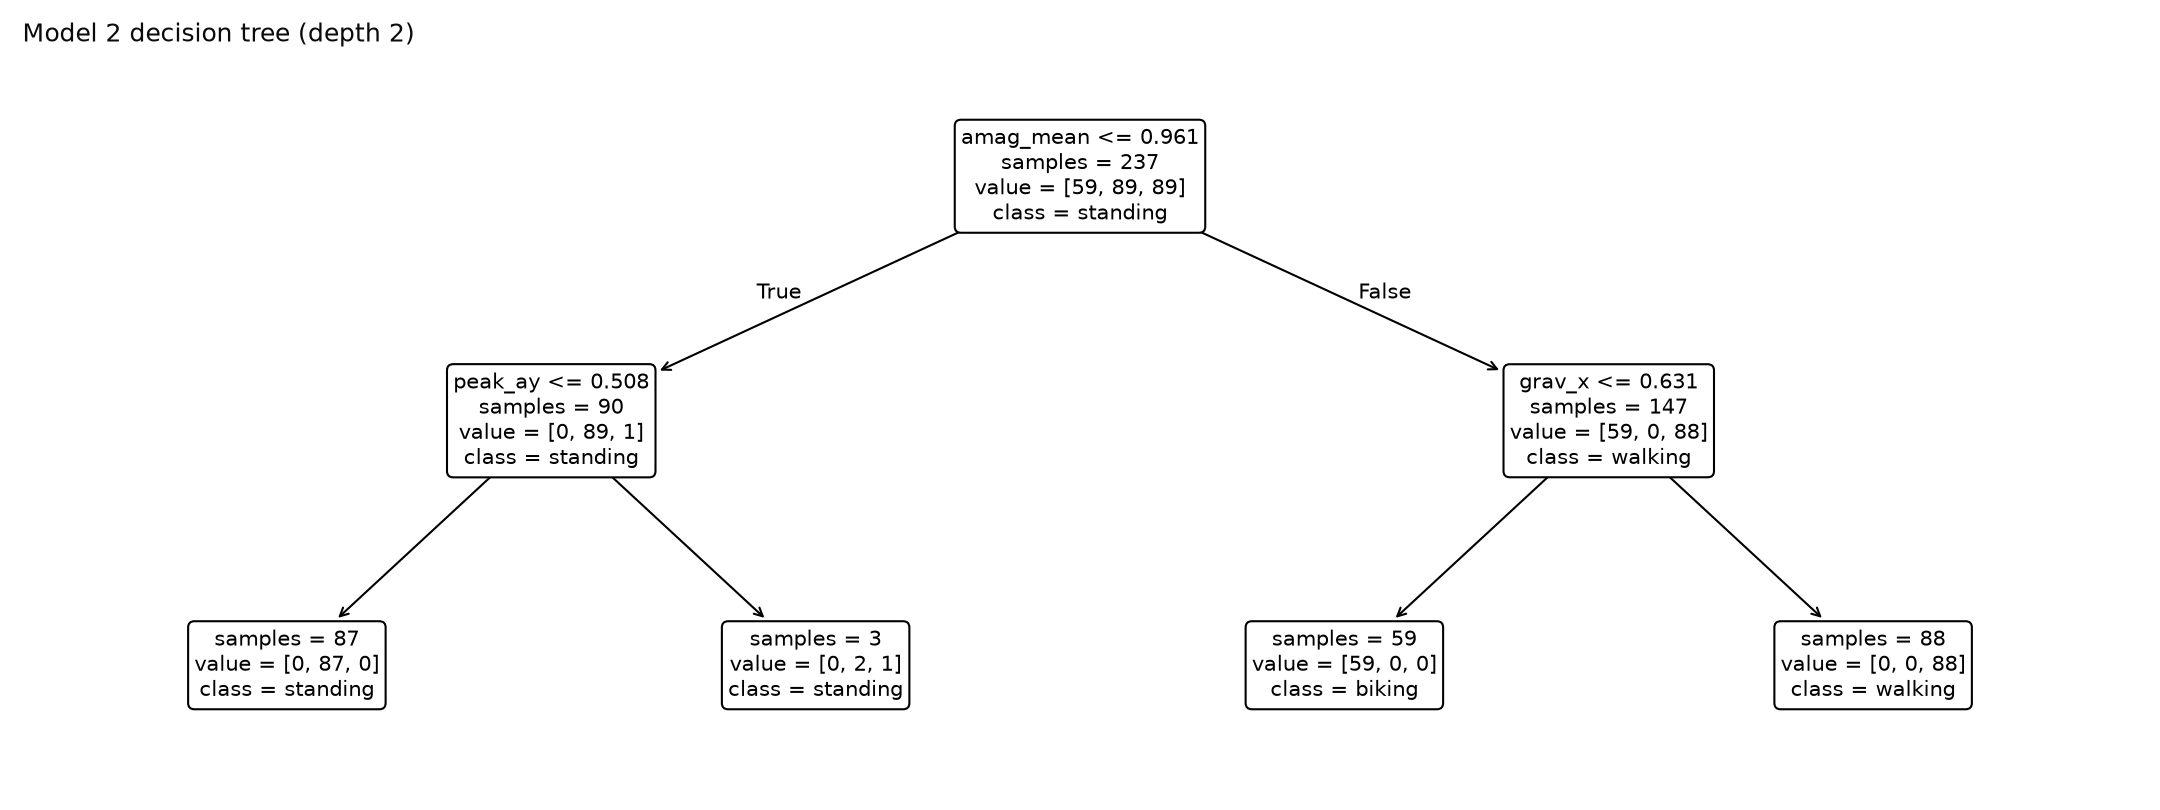
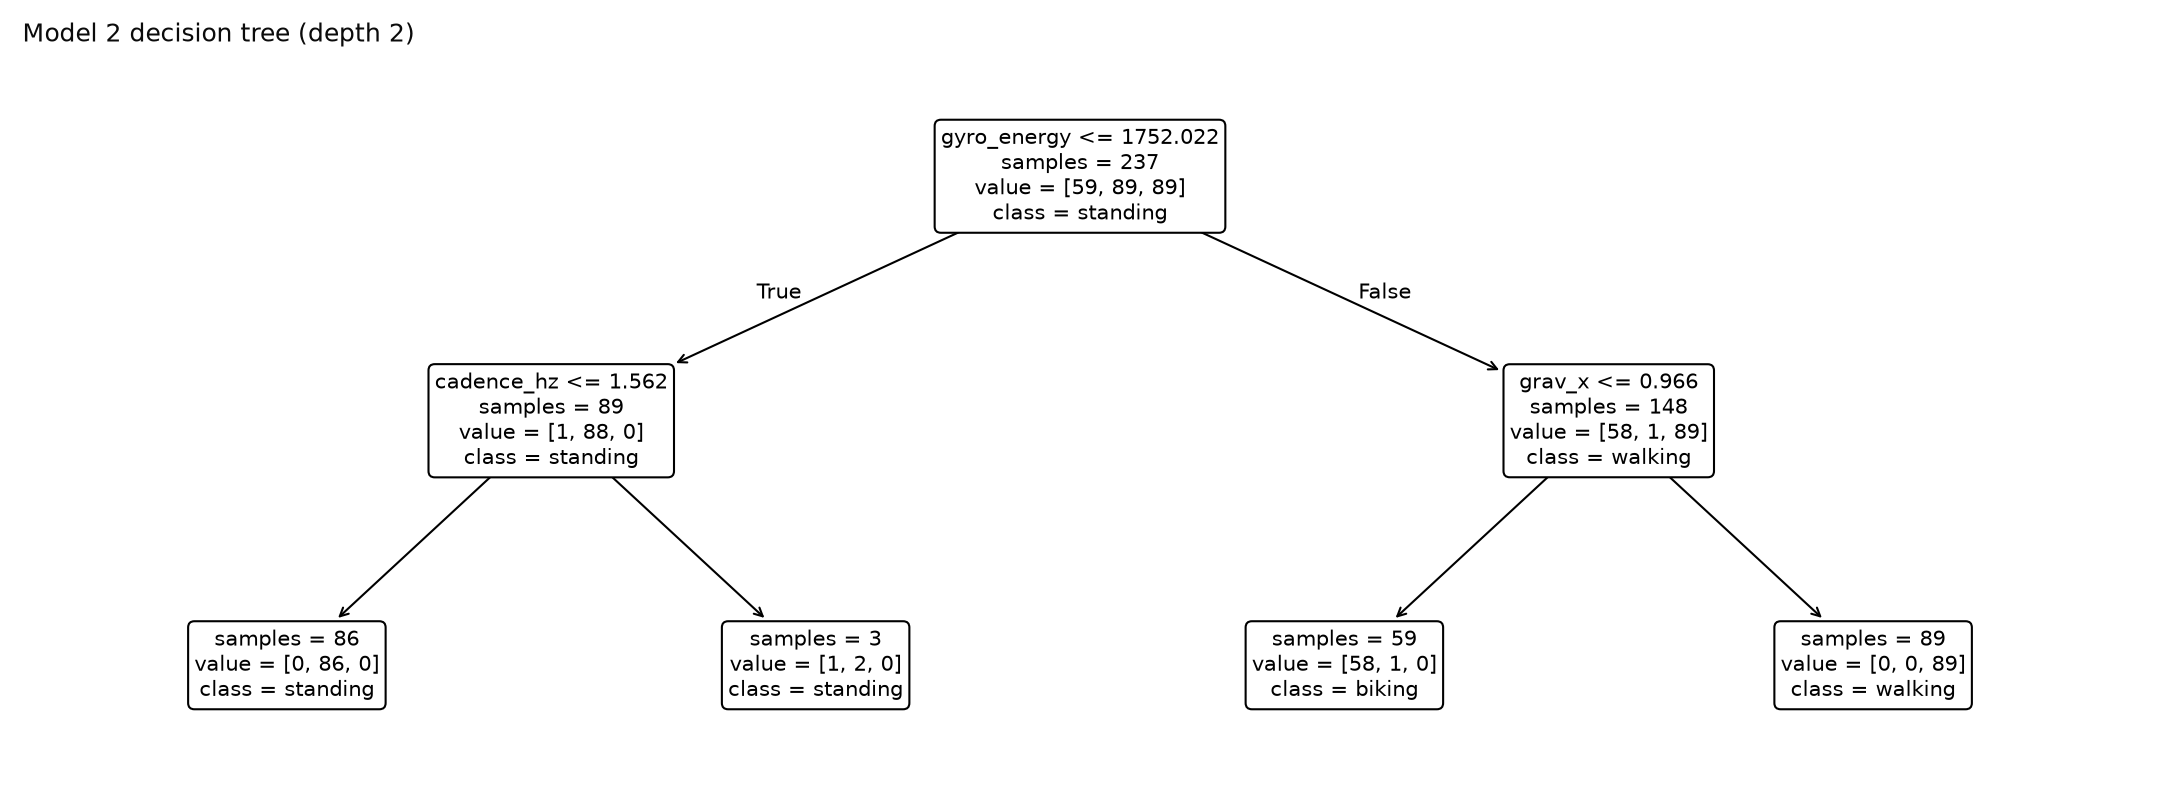
Model 2: drop calibration-sensitive features
Absolute accel levels and per-axis means (amag_mean/min/max, mean_a*,
mean_g*) shift with a sensor's offset/scale and gyro bias; the old root
split amag_mean <= 0.961 only reflected this sensor's ~0.95 g at rest.
Without them the tree splits on gyro_energy (is the thigh rotating?) and
grav_x (is the thigh vertical?), and held-out accuracy on the current
1-subject time split went from 97% to 100% (72 windows).

diff --git a/laptop/model2.py b/laptop/model2.py
@@ -1,5 +1,12 @@
 """Phase 5, Model 2: a shallow decision tree on all IMU features.
 
+Calibration-sensitive features are left out (CALIBRATION_SENSITIVE): absolute
+accel levels and per-axis means move with a sensor's offset/scale and gyro
+bias, so a split on them (e.g. amag_mean <= 0.961, which only reflected this
+sensor reading ~0.95 g at rest) would not carry over to other people or
+boards. Model 2 uses variability (std, amag_std, gyro magnitude/energy),
+cadence, peaks and the gravity *direction* (a unit vector) instead.
+
 Depths 2-5 are compared on the same held-out splits as Model 1 (see
 evaluation.py); the shallowest depth with the best held-out accuracy is refit
 on all windows and exported as plain if/else Python (no sklearn on the board).
@@ -29,13 +36,18 @@ from sklearn.tree import DecisionTreeClassifier, plot_tree
 
 import plotting
 from evaluation import classes_present, splits
-from shared import REPO, shared_features
+from shared import REPO, copy_to_app, shared_features
 
 F = shared_features()
 DEPTHS = (2, 3, 4, 5)
 MIN_SAMPLES_LEAF = 3
 RULES = REPO / "models" / "model2_rules.py"
 META_COLUMNS = ("subject", "recording", "activity", "label", "t_start", "t_end")
+CALIBRATION_SENSITIVE = (
+    "amag_mean", "amag_min", "amag_max",       # absolute |a| levels (scale/offset)
+    "mean_ax", "mean_ay", "mean_az",           # per-axis offsets (direction is in grav_*)
+    "mean_gx", "mean_gy", "mean_gz",           # gyro bias
+)
 
 
 def make_tree(depth):
@@ -87,7 +99,7 @@ def load_rules():
 
 def main():
     windows = pd.read_csv(REPO / "data" / "windows.csv")
-    features = [c for c in windows.columns if c not in META_COLUMNS]
+    features = [c for c in windows.columns if c not in META_COLUMNS and c not in CALIBRATION_SENSITIVE]
     classes = classes_present(windows, F.CLASSES)
     method, folds = splits(windows)
     X, y = windows[features], windows["label"]
@@ -116,7 +128,9 @@ def main():
     mismatch = int((exported != clf.predict(X)).sum())
     if mismatch:
         raise SystemExit(f"exported rules disagree with sklearn on {mismatch} windows")
-    print(f"exported {RULES.relative_to(REPO)} (matches sklearn on all {len(windows)} windows)")
+    copy_to_app(RULES)
+    print(f"exported {RULES.relative_to(REPO)} (matches sklearn on all {len(windows)} windows; "
+          f"copied to unoq_app/python/models/)")
 
     preds = held_out[best][0]
     tested = preds.dropna().index

diff --git a/models/model2_rules.py b/models/model2_rules.py
@@ -1,16 +1,16 @@
 """Model 2 decision tree, generated by laptop/model2.py. Do not edit by hand."""
 
-# depth 2, trained on 237 windows from subjects ceci, classes standing, walking, biking; held-out accuracy 97.2% (time split within each recording (first 70% train, rest test; only 1 subject: ceci)); 2026-10-24
-FEATURES = ['peak_ax', 'peak_ay', 'peak_az', 'mean_ax', 'std_ax', 'mean_ay', 'std_ay', 'mean_az', 'std_az', 'mean_gx', 'std_gx', 'mean_gy', 'std_gy', 'mean_gz', 'std_gz', 'amag_mean', 'amag_std', 'amag_max', 'amag_min', 'gmag_mean', 'gmag_max', 'gyro_energy', 'grav_x', 'grav_y', 'grav_z', 'cadence_hz', 'cadence_strength']
+# depth 2, trained on 237 windows from subjects ceci, classes standing, walking, biking; held-out accuracy 100.0% (time split within each recording (first 70% train, rest test; only 1 subject: ceci)); 2026-10-24
+FEATURES = ['peak_ax', 'peak_ay', 'peak_az', 'std_ax', 'std_ay', 'std_az', 'std_gx', 'std_gy', 'std_gz', 'amag_std', 'gmag_mean', 'gmag_max', 'gyro_energy', 'grav_x', 'grav_y', 'grav_z', 'cadence_hz', 'cadence_strength']
 CLASSES = ['biking', 'standing', 'walking']
 
 
 def predict(f):
     """f: dict of window features (shared_features.window_features). Returns a label."""
-    if f['amag_mean'] <= 0.9608841836452484:
+    if f['gyro_energy'] <= 1752.0216674804688:
         return 'standing'
     else:
-        if f['grav_x'] <= 0.6310150921344757:
+        if f['grav_x'] <= 0.9657998085021973:
             return 'biking'
         else:
             return 'walking'
